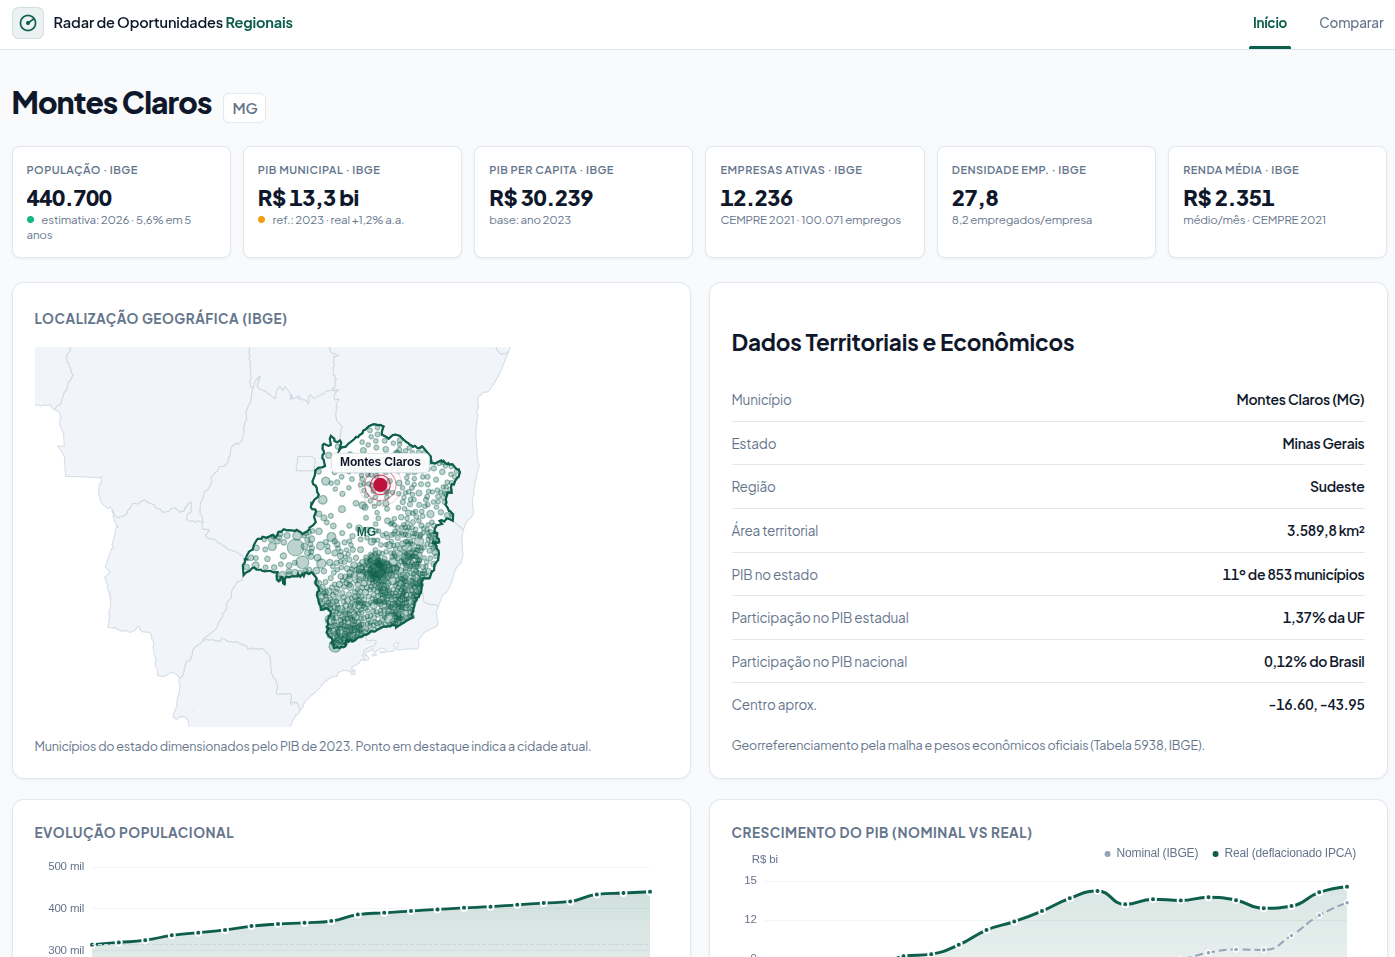
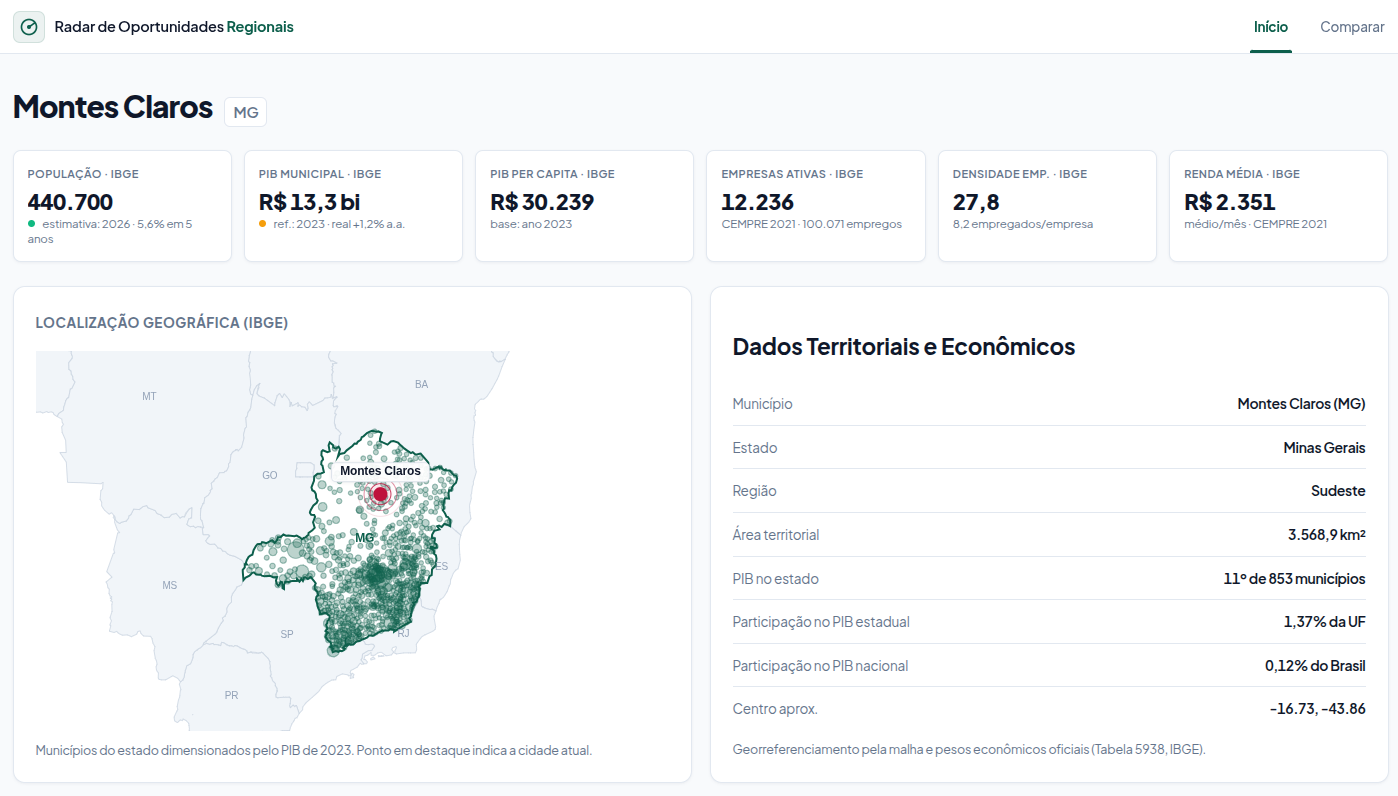
atualiza README com novas imagens e correção de tabelas

diff --git a/README.md b/README.md
@@ -23,36 +23,42 @@ python3 -m venv .venv
 ## Interface do Sistema
 
 ### 1. Painel do Município — Indicadores Gerais e Evolução Histórica
-Apresentação dos principais indicadores econômicos, evolução demográfica e crescimento real do PIB municipal deflacionado pelo IPCA.
+Apresentação dos principais indicadores econômicos.
 
 ![Painel do Município - Indicadores e Evolução](assets/tela-municipio-1.png)
 
 ### 2. Composição Setorial e Ambiente Macroeconômico
-Detalhamento do Valor Adicionado Bruto (VAB) por setor (Agropecuária, Indústria, Serviços e Administração Pública) integrado aos dados macroeconômicos do Banco Central obtidos via SOAP (Selic, IPCA, juros de capital de giro e taxa de inadimplência PJ).
+Detalhamento do Valor Adicionado Bruto (VAB) por setor (Agropecuária, Indústria, Serviços e Administração Pública) integrado aos dados macroeconômicos do Banco Central obtidos via SOAP (IPCA). Contém evolução demográfica e crescimento real do PIB municipal deflacionado pelo IPCA.
 
 ![Composição Setorial e Crédito](assets/tela-municipio-2.png)
 
 ### 3. Diagnóstico Estratégico de Mercado e Mapa Territorial
-Painel de heurísticas automatizadas com classificação por cores (Oportunidade, Atenção e Risco) para orientar decisões de novos negócios, acompanhado da malha geográfica vetorial do estado e destaque do município pesquisado.
+Painel de heurísticas automatizadas com classificação por cores (Oportunidade, Atenção e Risco) para orientar decisões de novos negócios, acompanhado da malha geográfica vetorial do estado e destaque do município pesquisado. Contém dados macroeconômicos do Banco Central obtidos via SOAP (Selic, IPCA, juros de capital de giro e taxa de inadimplência PJ).
+
 
 ![Diagnóstico de Mercado e Mapa Territorial](assets/tela-municipio-3.png)
 
 ### 4. Módulo de Comparação e Benchmarking Municipal
-Tela de análise comparativa simultânea (de 2 a 4 municípios) com tabelas de benchmarking, gráficos comparativos de PIB per capita, evolução populacional e estrutura setorial sobreposta.
+Tela de análise comparativa simultânea (de 2 a 4 municípios) com tabelas de benchmarking.
 
-![Comparativo entre Municípios](assets/tela-comparativo.png)
+![Comparativo entre Municípios](assets/tela-comparativo-1.png)
+
+
+### 5. Módulo de Comparação com Gráficos
+
+Gráficos comparativos de PIB per capita, evolução populacional e estrutura setorial sobreposta.
+
+![Comparativo entre Municípios - gráficos](assets/tela-comparativo-2.png)
 
 
 ## Rotas
 
 | Rota | Papel |
 |---|---|
-| `/` | Página inicial (busca por município com autocomplete e polos em destaque) |
+| `/` | Página inicial (busca por município com polos em destaque) |
 | `/municipio/{id}` | Painel analítico completo do município (PIB real, demografia, VAB setorial) |
 | `/comparar?ids=1,2,3` | Comparador de benchmarking direto entre 2 a 4 municípios |
-| `/api/localidades?q=` | API de autocomplete de municípios (IBGE Localidades com cache de 24 h) |
 | `/api/monitor` | API de auditoria em tempo real das requisições REST e SOAP trafegadas |
-| `/api/diagnostico` | Healthcheck das integrações externas (`{bcb_soap, bcb_reserva_rest, ibge_rest}`) |
 
 ## Integrações
 
